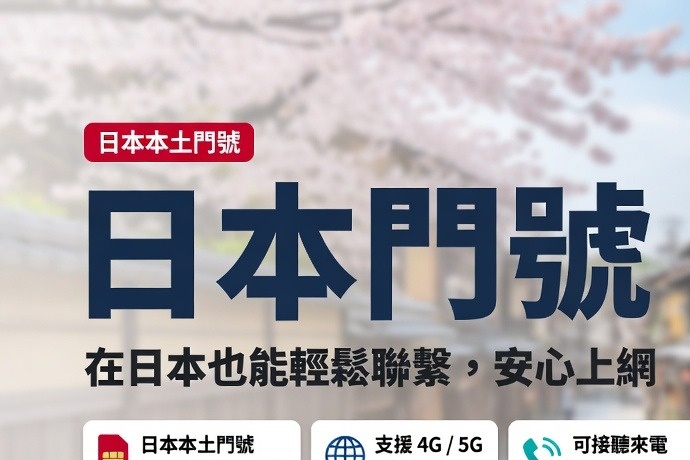
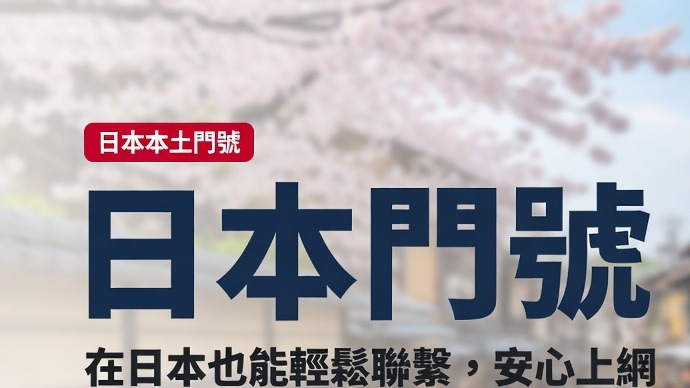
封面圖比例再調整為16:9 + 水電瓦斯文章補上官方資料來源連結
- 水電瓦斯／手機門號兩張封面圖從3:2改裁成16:9(比對站上多數文章慣用比例)，內文圖不再偏高
- 「資料來源」段落把東京電力(TEPCO)、東京都水道局改成可點擊的官網連結(周周提供的官方網址)，繁中/日文同步
- 修正日文版一處殘留英文字「technician」未翻譯的小瑕疵

Claude-Session: https://claude.ai/code/session_01FMpEJuNSBpsPhUhzKdUXoA

diff --git a/japan-utilities-setup-guide-cn.html b/japan-utilities-setup-guide-cn.html
@@ -100,7 +100,7 @@ html{-webkit-text-size-adjust:100%;text-size-adjust:100%}
 <div class="am" style="display:flex;gap:14px;color:var(--mut);font-size:14px;margin-bottom:16px"><span>撰写者：周周</span><span>2026-07-01</span></div>
 <div class="share"><a href="https://www.facebook.com/sharer/sharer.php?u=https%3A%2F%2Fchouchouinjapan.com%2Fjapan-utilities-setup-guide.html" target="_blank" rel="noopener">f 分享</a><a href="https://www.threads.net/intent/post?text=%E5%9C%A8%E6%9D%B1%E4%BA%AC%E8%B2%B7%E6%88%BF%EF%BC%8F%E6%90%AC%E5%AE%B6%E5%BE%8C%EF%BC%8C%E6%B0%B4%E9%9B%BB%E7%93%A6%E6%96%AF%E6%80%8E%E9%BA%BC%E9%96%8B%E9%80%9A%EF%BC%9F%E5%85%A5%E4%BD%8F%E5%89%8D%E5%BF%85%E5%81%9A%E6%B8%85%E5%96%AE%20https%3A%2F%2Fchouchouinjapan.com%2Fjapan-utilities-setup-guide.html" target="_blank" rel="noopener">Threads 分享</a><a href="https://twitter.com/intent/tweet?url=https%3A%2F%2Fchouchouinjapan.com%2Fjapan-utilities-setup-guide.html&text=%E5%9C%A8%E6%9D%B1%E4%BA%AC%E8%B2%B7%E6%88%BF%EF%BC%8F%E6%90%AC%E5%AE%B6%E5%BE%8C%EF%BC%8C%E6%B0%B4%E9%9B%BB%E7%93%A6%E6%96%AF%E6%80%8E%E9%BA%BC%E9%96%8B%E9%80%9A%EF%BC%9F%E5%85%A5%E4%BD%8F%E5%89%8D%E5%BF%85%E5%81%9A%E6%B8%85%E5%96%AE" target="_blank" rel="noopener">𝕏 分享</a><a href="javascript:void(0)" onclick="navigator.clipboard&&navigator.clipboard.writeText('https://chouchouinjapan.com/japan-utilities-setup-guide.html');this.textContent='✓ 已复制';return false">🔗 复制连结</a></div>
 <div class="post">
-<p>交屋或退租搬家后，最实际的第一件事就是水电瓦斯要通。这件事日本没有代办一条龙服务，通常是你自己要打电话或上网申请，这篇把三种水电瓦斯的申请方式、要提前多久办讲清楚。</p><p class="sh"><b>电力</b>东京地区主要是东京电力（TEPCO），2016年电力自由化后虽然有其他业者（新电力）可以选，但根据调查，截至2020年8月，TEPCO服务区内转去新电力的比例也只有约 <b>23.5%</b>，多数住户还是预设用TEPCO。申请方式很简单：<b>上网或打电话都可以，不需要技师到现场</b>，现代智慧电表会在约定时间自动远端开通，旧式电表的话自己扳一下电箱开关就好。TEPCO建议提早几个工作天到一周前申请，急件也有专线可以当天处理。</p><p class="sh"><b>瓦斯</b>东京地区主要是东京瓦斯（东京ガス），跟电力最大的不同是<b>瓦斯开通一定要有师傅到现场</b>——技师会来开瓦斯表、顺便检查瓦斯炉、热水器等设备的安全性，而且<b>你本人（或授权代表）必须在场</b>。因为要约师傅时间，东京瓦斯建议提早 <b>1～2周</b> 申请，搬家旺季（2月底到4月初）建议抓 <b>10天到2周</b> 以上，因为那段时间预约会被排满。如果真的来不及，官方说法是当天上午7点半前上网申请，下午还有机会排到当天时段，但不是保证一定有位子。</p><p class="sh"><b>水道</b>东京23区跟大部分都会区的自来水是由<b>东京都水道局</b>这个公部门负责，不是私人公司。申请一样可以打电话或上网（水道局也有24小时线上表单），建议提早 <b>3～4个工作天</b> 到一周申请。水道通常<b>不用特别等技师</b>，因为水管很少会被完全关掉，多数情况搬进去马上就有水；如果真的没水，通常只是水表旁的「止水栓」没开，自己转开就好，不是技师才能处理的事。</p><p class="sh"><b>这些事情谁负责办</b>：答案是——<b>原则上要你自己打电话或上网办</b>，不管是买房还是租屋都一样。房仲或代管公司通常只会留水电瓦斯的联络资讯或DM给你，不会帮你打电话申请。买房交屋时，司法书士只负责产权登记，水电瓦斯一样是买方自己要处理。</p><p class="sh"><b>其中最容易被忽略、最该提早办的是网路</b>：光纤网路正常大概要等 <b>2～4周</b> 才能装，搬家旺季（3～5月）甚至可能拖到 <b>6～8周</b>，建议至少提前一个月申请，中间可以先用行动网路分享或租Pocket WiFi过渡。另外提醒，搬家后 <b>14天内</b> 要去区公所办「转入届」（迁入登记），这是日本法律规定要做的事，建议跟水电瓦斯一起排进「搬家第一周清单」。</p><div style='background:#fffbeb;border:2px solid #fde68a;border-radius:14px;padding:16px 18px;margin-bottom:14px'><p style='font-weight:700;color:#b45309;margin-bottom:8px'>⚠️ 排序建议</p><p style='font-size:14px;color:#44403c;line-height:1.9;margin:0'>瓦斯要约师傅、最花时间，<b>最优先办</b>；网路要等最久，<b>建议提前一个月</b>就申请；电力、水道相对简单，搬家前几天到一周申请都还来得及。</p></div><div style='background:linear-gradient(135deg,#fff1f2,#ffe4e6);border:2px solid #fb7185;border-radius:14px;padding:16px 18px;margin:6px 0 18px'><p style='font-weight:700;color:var(--rose-d);margin-bottom:8px'>💡 周周的提醒</p><p style='font-size:14px;color:#44403c;line-height:1.9;margin:0'>这些流程日文电话或线上申请都不算难，但真的担心沟通问题，我们的售后服务可以帮忙对接水电瓦斯这几件事——买房后这些琐事想要有人帮忙处理，欢迎加LINE找我聊聊。</p></div><p class="src"><b>资料来源：</b>东京电力（TEPCO）官网搬家手续说明、东京瓦斯（东京ガス）官网使用开始说明、东京都水道局官网申请说明、ENECHANGE电力自由化转换率调查（2020年8月）、日本移居／搬家实用指南整理。</p><p class="src">本文为一般资讯整理，不构成法律或税务建议；实际申请流程、费用与时程请以各电力／瓦斯／水道业者当下公告为准。</p>
+<p>交屋或退租搬家后，最实际的第一件事就是水电瓦斯要通。这件事日本没有代办一条龙服务，通常是你自己要打电话或上网申请，这篇把三种水电瓦斯的申请方式、要提前多久办讲清楚。</p><p class="sh"><b>电力</b>东京地区主要是东京电力（TEPCO），2016年电力自由化后虽然有其他业者（新电力）可以选，但根据调查，截至2020年8月，TEPCO服务区内转去新电力的比例也只有约 <b>23.5%</b>，多数住户还是预设用TEPCO。申请方式很简单：<b>上网或打电话都可以，不需要技师到现场</b>，现代智慧电表会在约定时间自动远端开通，旧式电表的话自己扳一下电箱开关就好。TEPCO建议提早几个工作天到一周前申请，急件也有专线可以当天处理。</p><p class="sh"><b>瓦斯</b>东京地区主要是东京瓦斯（东京ガス），跟电力最大的不同是<b>瓦斯开通一定要有师傅到现场</b>——技师会来开瓦斯表、顺便检查瓦斯炉、热水器等设备的安全性，而且<b>你本人（或授权代表）必须在场</b>。因为要约师傅时间，东京瓦斯建议提早 <b>1～2周</b> 申请，搬家旺季（2月底到4月初）建议抓 <b>10天到2周</b> 以上，因为那段时间预约会被排满。如果真的来不及，官方说法是当天上午7点半前上网申请，下午还有机会排到当天时段，但不是保证一定有位子。</p><p class="sh"><b>水道</b>东京23区跟大部分都会区的自来水是由<b>东京都水道局</b>这个公部门负责，不是私人公司。申请一样可以打电话或上网（水道局也有24小时线上表单），建议提早 <b>3～4个工作天</b> 到一周申请。水道通常<b>不用特别等技师</b>，因为水管很少会被完全关掉，多数情况搬进去马上就有水；如果真的没水，通常只是水表旁的「止水栓」没开，自己转开就好，不是技师才能处理的事。</p><p class="sh"><b>这些事情谁负责办</b>：答案是——<b>原则上要你自己打电话或上网办</b>，不管是买房还是租屋都一样。房仲或代管公司通常只会留水电瓦斯的联络资讯或DM给你，不会帮你打电话申请。买房交屋时，司法书士只负责产权登记，水电瓦斯一样是买方自己要处理。</p><p class="sh"><b>其中最容易被忽略、最该提早办的是网路</b>：光纤网路正常大概要等 <b>2～4周</b> 才能装，搬家旺季（3～5月）甚至可能拖到 <b>6～8周</b>，建议至少提前一个月申请，中间可以先用行动网路分享或租Pocket WiFi过渡。另外提醒，搬家后 <b>14天内</b> 要去区公所办「转入届」（迁入登记），这是日本法律规定要做的事，建议跟水电瓦斯一起排进「搬家第一周清单」。</p><div style='background:#fffbeb;border:2px solid #fde68a;border-radius:14px;padding:16px 18px;margin-bottom:14px'><p style='font-weight:700;color:#b45309;margin-bottom:8px'>⚠️ 排序建议</p><p style='font-size:14px;color:#44403c;line-height:1.9;margin:0'>瓦斯要约师傅、最花时间，<b>最优先办</b>；网路要等最久，<b>建议提前一个月</b>就申请；电力、水道相对简单，搬家前几天到一周申请都还来得及。</p></div><div style='background:linear-gradient(135deg,#fff1f2,#ffe4e6);border:2px solid #fb7185;border-radius:14px;padding:16px 18px;margin:6px 0 18px'><p style='font-weight:700;color:var(--rose-d);margin-bottom:8px'>💡 周周的提醒</p><p style='font-size:14px;color:#44403c;line-height:1.9;margin:0'>这些流程日文电话或线上申请都不算难，但真的担心沟通问题，我们的售后服务可以帮忙对接水电瓦斯这几件事——买房后这些琐事想要有人帮忙处理，欢迎加LINE找我聊聊。</p></div><p class="src"><b>资料来源：</b><a href='https://www.tepco.co.jp/index-j.html' target='_blank' style='color:var(--rose);font-weight:600' rel='noopener'>东京电力（TEPCO）官网</a>搬家手续说明、东京瓦斯（东京ガス）官网使用开始说明、<a href='https://www.waterworks.metro.tokyo.lg.jp/tetsuduki' target='_blank' style='color:var(--rose);font-weight:600' rel='noopener'>东京都水道局官网</a>申请说明、ENECHANGE电力自由化转换率调查（2020年8月）、日本移居／搬家实用指南整理。</p><p class="src">本文为一般资讯整理，不构成法律或税务建议；实际申请流程、费用与时程请以各电力／瓦斯／水道业者当下公告为准。</p>
 </div>
 
 <div class="ablock" style="margin-top:26px"><div><b>这篇有帮到你吗？有问题直接问我</b><br><span style="color:var(--mut);font-size:14px">看到喜欢的物件也可以直接贴给周周看看。</span></div><a class="btn btn-line" href="https://lin.ee/RscRWCp" target="_blank" rel="noopener">加 LINE 咨询</a></div>

diff --git a/japan-utilities-setup-guide-ja.html b/japan-utilities-setup-guide-ja.html
@@ -99,7 +99,7 @@ html{-webkit-text-size-adjust:100%;text-size-adjust:100%}
 <div class="am" style="display:flex;gap:14px;color:var(--mut);font-size:14px;margin-bottom:16px"><span>執筆者：周周</span><span>2026-07-01</span></div>
 <div class="share"><a href="https://www.facebook.com/sharer/sharer.php?u=https%3A%2F%2Fchouchouinjapan.com%2Fjapan-utilities-setup-guide-ja.html" target="_blank" rel="noopener">f シェア</a><a href="https://www.threads.net/intent/post?text=%E6%9D%B1%E4%BA%AC%E3%81%A7%E4%BD%8F%E5%AE%85%E3%82%92%E8%B3%BC%E5%85%A5%E3%83%BB%E5%BC%95%E3%81%A3%E8%B6%8A%E3%81%97%E3%81%9F%E5%BE%8C%E3%80%81%E9%9B%BB%E6%B0%97%E3%83%BB%E3%82%AC%E3%82%B9%E3%83%BB%E6%B0%B4%E9%81%93%E3%81%AF%E3%81%A9%E3%81%86%E9%96%8B%E9%80%9A%E3%81%99%E3%82%8B%EF%BC%9F%E5%85%A5%E5%B1%85%E5%89%8D%E3%81%AE%E3%83%81%E3%82%A7%E3%83%83%E3%82%AF%E3%83%AA%E3%82%B9%E3%83%88%20https%3A%2F%2Fchouchouinjapan.com%2Fjapan-utilities-setup-guide-ja.html" target="_blank" rel="noopener">Threadsでシェア</a><a href="https://twitter.com/intent/tweet?url=https%3A%2F%2Fchouchouinjapan.com%2Fjapan-utilities-setup-guide-ja.html&text=%E6%9D%B1%E4%BA%AC%E3%81%A7%E4%BD%8F%E5%AE%85%E3%82%92%E8%B3%BC%E5%85%A5%E3%83%BB%E5%BC%95%E3%81%A3%E8%B6%8A%E3%81%97%E3%81%9F%E5%BE%8C%E3%80%81%E9%9B%BB%E6%B0%97%E3%83%BB%E3%82%AC%E3%82%B9%E3%83%BB%E6%B0%B4%E9%81%93%E3%81%AF%E3%81%A9%E3%81%86%E9%96%8B%E9%80%9A%E3%81%99%E3%82%8B%EF%BC%9F%E5%85%A5%E5%B1%85%E5%89%8D%E3%81%AE%E3%83%81%E3%82%A7%E3%83%83%E3%82%AF%E3%83%AA%E3%82%B9%E3%83%88" target="_blank" rel="noopener">𝕏 でポスト</a><a href="javascript:void(0)" onclick="navigator.clipboard&&navigator.clipboard.writeText('https://chouchouinjapan.com/japan-utilities-setup-guide-ja.html');this.textContent='✓ コピーしました';return false">🔗 リンクをコピー</a></div>
 <div class="post">
-<p>引き渡しや退去による引っ越しの後、まず最初に済ませておきたいのが電気・ガス・水道の開通手続きです。日本にはこれをまとめて代行してくれるサービスはなく、基本的にはご自身で電話やウェブから申し込む必要があります。この記事では、電気・ガス・水道それぞれの申込方法と、どれくらい前から手続きすべきかを整理しました。</p><p class="sh"><b>電気</b>東京エリアの主な電力会社は東京電力（TEPCO）です。2016年の電力自由化以降、新電力と呼ばれる他社を選ぶこともできますが、ある調査によると2020年8月時点でTEPCOの供給エリア内で新電力に切り替えた割合は約<b>23.5%</b>にとどまっており、多くの世帯は引き続きTEPCOをデフォルトで利用しています。申込方法はシンプルで、<b>ウェブまたは電話で完結し、technician（作業員）の訪問は不要</b>です。スマートメーターであれば予約した時間に遠隔で自動的に通電し、旧式のメーターの場合は分電盤のスイッチをご自身で入れるだけで済みます。TEPCOでは数営業日〜1週間程度前の申し込みを推奨していますが、急ぎの場合は当日対応の専用窓口もあります。</p><p class="sh"><b>ガス</b>東京エリアの主なガス会社は東京ガスです。電気と大きく異なるのは、<b>ガスの開栓には必ず作業員の訪問が必要</b>という点です。作業員がガスメーターを開栓し、ガスコンロや給湯器などの設備の安全確認も同時に行うため、<b>ご本人（または代理の方）の立ち会いが必須</b>となります。作業員のスケジュールを確保する必要があるため、東京ガスでは<b>1〜2週間前</b>の申し込みを推奨しており、引っ越しの繁忙期（2月末〜4月上旬）は<b>10日〜2週間以上前</b>の申し込みが望ましいとされています。この時期は予約が埋まりやすいためです。どうしても間に合わない場合、当日の朝7時30分までにウェブから申し込めば、その日の午後に対応してもらえる可能性もありますが、必ず確保できるとは限りません。</p><p class="sh"><b>水道</b>東京23区および多くの都市部エリアの水道事業は、民間企業ではなく<b>東京都水道局</b>という公的機関が担っています。申込方法は電話またはウェブ（水道局には24時間対応のオンラインフォームもあります）で、<b>3〜4営業日〜1週間程度前</b>の申し込みが推奨されています。水道は<b>基本的に作業員を待つ必要がなく</b>、配管が完全に止水されることはほとんどないため、多くの場合は入居してすぐに水が使えます。もし水が出ない場合は、たいていメーター横の「止水栓」が閉まっているだけで、ご自身で開ければ済むケースがほとんどです。</p><p class="sh"><b>これらの手続きは誰が行うのか</b>——答えは、<b>購入・賃貸を問わず、原則としてご自身で電話またはウェブから申し込む</b>必要があるということです。不動産会社や管理会社は連絡先やチラシを渡してくれることはあっても、代わりに電話をかけて申し込んでくれるわけではありません。購入して引き渡しを受ける場合も、司法書士が担うのは登記手続きのみで、電気・ガス・水道は買主自身が対応する必要があります。</p><p class="sh"><b>もっとも見落とされがちで、早めに手配すべきなのがインターネット回線</b>です。光回線の工事は通常<b>2〜4週間</b>程度かかりますが、引っ越しの繁忙期（3〜5月）には<b>6〜8週間</b>程度まで延びることもあります。少なくとも1ヶ月前には申し込むことをおすすめし、その間はモバイルルーターやポケットWi-Fiで代用するとよいでしょう。あわせて、引っ越し後<b>14日以内</b>に区役所・市役所で「転入届」（転入手続き）を行うことも日本の法律で義務付けられていますので、電気・ガス・水道と合わせて「引っ越し1週間目のチェックリスト」に入れておくことをおすすめします。</p><div style='background:#fffbeb;border:2px solid #fde68a;border-radius:14px;padding:16px 18px;margin-bottom:14px'><p style='font-weight:700;color:#b45309;margin-bottom:8px'>⚠️ 優先順位の目安</p><p style='font-size:14px;color:#44403c;line-height:1.9;margin:0'>ガスは作業員の予約が必要でもっとも時間がかかるため<b>最優先</b>で手配を。インターネットはもっとも待ち時間が長いため<b>1ヶ月前</b>には申し込みを。電気・水道は比較的シンプルなので、引っ越しの数日前〜1週間前の申し込みでも間に合います。</p></div><div style='background:linear-gradient(135deg,#fff1f2,#ffe4e6);border:2px solid #fb7185;border-radius:14px;padding:16px 18px;margin:6px 0 18px'><p style='font-weight:700;color:var(--rose-d);margin-bottom:8px'>💡 周周からのアドバイス</p><p style='font-size:14px;color:#44403c;line-height:1.9;margin:0'>これらの手続きは日本語での電話やオンライン申請でもそれほど難しくありませんが、言葉の面でご不安な場合は、私どものアフターサポートで電気・ガス・水道の手続きのご案内をお手伝いすることも可能です。購入後のこうした細々とした手続きをサポートしてほしい方は、お気軽にLINEでご相談ください。</p></div><p class="src"><b>出典：</b>東京電力（TEPCO）公式サイトの引っ越し手続き案内、東京ガス公式サイトの使用開始案内、東京都水道局公式サイトの申込案内、ENECHANGE 電力自由化スイッチング率調査（2020年8月）、日本の移住・引っ越し実用ガイド類の整理。</p><p class="src">本記事は一般的な情報整理を目的としたものであり、法律や税務に関する助言ではありません。実際の申込方法、費用、所要期間については、各電気・ガス・水道事業者の最新の案内をご確認ください。</p>
+<p>引き渡しや退去による引っ越しの後、まず最初に済ませておきたいのが電気・ガス・水道の開通手続きです。日本にはこれをまとめて代行してくれるサービスはなく、基本的にはご自身で電話やウェブから申し込む必要があります。この記事では、電気・ガス・水道それぞれの申込方法と、どれくらい前から手続きすべきかを整理しました。</p><p class="sh"><b>電気</b>東京エリアの主な電力会社は東京電力（TEPCO）です。2016年の電力自由化以降、新電力と呼ばれる他社を選ぶこともできますが、ある調査によると2020年8月時点でTEPCOの供給エリア内で新電力に切り替えた割合は約<b>23.5%</b>にとどまっており、多くの世帯は引き続きTEPCOをデフォルトで利用しています。申込方法はシンプルで、<b>ウェブまたは電話で完結し、作業員の訪問は不要</b>です。スマートメーターであれば予約した時間に遠隔で自動的に通電し、旧式のメーターの場合は分電盤のスイッチをご自身で入れるだけで済みます。TEPCOでは数営業日〜1週間程度前の申し込みを推奨していますが、急ぎの場合は当日対応の専用窓口もあります。</p><p class="sh"><b>ガス</b>東京エリアの主なガス会社は東京ガスです。電気と大きく異なるのは、<b>ガスの開栓には必ず作業員の訪問が必要</b>という点です。作業員がガスメーターを開栓し、ガスコンロや給湯器などの設備の安全確認も同時に行うため、<b>ご本人（または代理の方）の立ち会いが必須</b>となります。作業員のスケジュールを確保する必要があるため、東京ガスでは<b>1〜2週間前</b>の申し込みを推奨しており、引っ越しの繁忙期（2月末〜4月上旬）は<b>10日〜2週間以上前</b>の申し込みが望ましいとされています。この時期は予約が埋まりやすいためです。どうしても間に合わない場合、当日の朝7時30分までにウェブから申し込めば、その日の午後に対応してもらえる可能性もありますが、必ず確保できるとは限りません。</p><p class="sh"><b>水道</b>東京23区および多くの都市部エリアの水道事業は、民間企業ではなく<b>東京都水道局</b>という公的機関が担っています。申込方法は電話またはウェブ（水道局には24時間対応のオンラインフォームもあります）で、<b>3〜4営業日〜1週間程度前</b>の申し込みが推奨されています。水道は<b>基本的に作業員を待つ必要がなく</b>、配管が完全に止水されることはほとんどないため、多くの場合は入居してすぐに水が使えます。もし水が出ない場合は、たいていメーター横の「止水栓」が閉まっているだけで、ご自身で開ければ済むケースがほとんどです。</p><p class="sh"><b>これらの手続きは誰が行うのか</b>——答えは、<b>購入・賃貸を問わず、原則としてご自身で電話またはウェブから申し込む</b>必要があるということです。不動産会社や管理会社は連絡先やチラシを渡してくれることはあっても、代わりに電話をかけて申し込んでくれるわけではありません。購入して引き渡しを受ける場合も、司法書士が担うのは登記手続きのみで、電気・ガス・水道は買主自身が対応する必要があります。</p><p class="sh"><b>もっとも見落とされがちで、早めに手配すべきなのがインターネット回線</b>です。光回線の工事は通常<b>2〜4週間</b>程度かかりますが、引っ越しの繁忙期（3〜5月）には<b>6〜8週間</b>程度まで延びることもあります。少なくとも1ヶ月前には申し込むことをおすすめし、その間はモバイルルーターやポケットWi-Fiで代用するとよいでしょう。あわせて、引っ越し後<b>14日以内</b>に区役所・市役所で「転入届」（転入手続き）を行うことも日本の法律で義務付けられていますので、電気・ガス・水道と合わせて「引っ越し1週間目のチェックリスト」に入れておくことをおすすめします。</p><div style='background:#fffbeb;border:2px solid #fde68a;border-radius:14px;padding:16px 18px;margin-bottom:14px'><p style='font-weight:700;color:#b45309;margin-bottom:8px'>⚠️ 優先順位の目安</p><p style='font-size:14px;color:#44403c;line-height:1.9;margin:0'>ガスは作業員の予約が必要でもっとも時間がかかるため<b>最優先</b>で手配を。インターネットはもっとも待ち時間が長いため<b>1ヶ月前</b>には申し込みを。電気・水道は比較的シンプルなので、引っ越しの数日前〜1週間前の申し込みでも間に合います。</p></div><div style='background:linear-gradient(135deg,#fff1f2,#ffe4e6);border:2px solid #fb7185;border-radius:14px;padding:16px 18px;margin:6px 0 18px'><p style='font-weight:700;color:var(--rose-d);margin-bottom:8px'>💡 周周からのアドバイス</p><p style='font-size:14px;color:#44403c;line-height:1.9;margin:0'>これらの手続きは日本語での電話やオンライン申請でもそれほど難しくありませんが、言葉の面でご不安な場合は、私どものアフターサポートで電気・ガス・水道の手続きのご案内をお手伝いすることも可能です。購入後のこうした細々とした手続きをサポートしてほしい方は、お気軽にLINEでご相談ください。</p></div><p class="src"><b>出典：</b><a href='https://www.tepco.co.jp/index-j.html' target='_blank' style='color:var(--rose);font-weight:600' rel='noopener'>東京電力（TEPCO）公式サイト</a>の引っ越し手続き案内、東京ガス公式サイトの使用開始案内、<a href='https://www.waterworks.metro.tokyo.lg.jp/tetsuduki' target='_blank' style='color:var(--rose);font-weight:600' rel='noopener'>東京都水道局公式サイト</a>の申込案内、ENECHANGE 電力自由化スイッチング率調査（2020年8月）、日本の移住・引っ越し実用ガイド類の整理。</p><p class="src">本記事は一般的な情報整理を目的としたものであり、法律や税務に関する助言ではありません。実際の申込方法、費用、所要期間については、各電気・ガス・水道事業者の最新の案内をご確認ください。</p>
 </div>
 
 <div class="ablock" style="margin-top:26px"><div><b>この記事はお役に立ちましたか？ご質問はお気軽にどうぞ</b><br><span style="color:var(--mut);font-size:14px">気になる物件があれば、そのまま周周までお送りください。</span></div><a class="btn btn-line" href="https://lin.ee/RscRWCp" target="_blank" rel="noopener">LINEで相談する</a></div>

diff --git a/japan-utilities-setup-guide.html b/japan-utilities-setup-guide.html
@@ -100,7 +100,7 @@ html{-webkit-text-size-adjust:100%;text-size-adjust:100%}
 <div class="am" style="display:flex;gap:14px;color:var(--mut);font-size:14px;margin-bottom:16px"><span>撰寫者：周周</span><span>2026-07-01</span></div>
 <div class="share"><a href="https://www.facebook.com/sharer/sharer.php?u=https%3A%2F%2Fchouchouinjapan.com%2Fjapan-utilities-setup-guide.html" target="_blank" rel="noopener">f 分享</a><a href="https://www.threads.net/intent/post?text=%E5%9C%A8%E6%9D%B1%E4%BA%AC%E8%B2%B7%E6%88%BF%EF%BC%8F%E6%90%AC%E5%AE%B6%E5%BE%8C%EF%BC%8C%E6%B0%B4%E9%9B%BB%E7%93%A6%E6%96%AF%E6%80%8E%E9%BA%BC%E9%96%8B%E9%80%9A%EF%BC%9F%E5%85%A5%E4%BD%8F%E5%89%8D%E5%BF%85%E5%81%9A%E6%B8%85%E5%96%AE%20https%3A%2F%2Fchouchouinjapan.com%2Fjapan-utilities-setup-guide.html" target="_blank" rel="noopener">Threads 分享</a><a href="https://twitter.com/intent/tweet?url=https%3A%2F%2Fchouchouinjapan.com%2Fjapan-utilities-setup-guide.html&text=%E5%9C%A8%E6%9D%B1%E4%BA%AC%E8%B2%B7%E6%88%BF%EF%BC%8F%E6%90%AC%E5%AE%B6%E5%BE%8C%EF%BC%8C%E6%B0%B4%E9%9B%BB%E7%93%A6%E6%96%AF%E6%80%8E%E9%BA%BC%E9%96%8B%E9%80%9A%EF%BC%9F%E5%85%A5%E4%BD%8F%E5%89%8D%E5%BF%85%E5%81%9A%E6%B8%85%E5%96%AE" target="_blank" rel="noopener">𝕏 分享</a><a href="javascript:void(0)" onclick="navigator.clipboard&&navigator.clipboard.writeText('https://chouchouinjapan.com/japan-utilities-setup-guide.html');this.textContent='✓ 已複製';return false">🔗 複製連結</a></div>
 <div class="post">
-<p>交屋或退租搬家後，最實際的第一件事就是水電瓦斯要通。這件事日本沒有代辦一條龍服務，通常是你自己要打電話或上網申請，這篇把三種水電瓦斯的申請方式、要提前多久辦講清楚。</p><p class="sh"><b>電力</b>東京地區主要是東京電力（TEPCO），2016年電力自由化後雖然有其他業者（新電力）可以選，但根據調查，截至2020年8月，TEPCO服務區內轉去新電力的比例也只有約 <b>23.5%</b>，多數住戶還是預設用TEPCO。申請方式很簡單：<b>上網或打電話都可以，不需要技師到現場</b>，現代智慧電表會在約定時間自動遠端開通，舊式電表的話自己扳一下電箱開關就好。TEPCO建議提早幾個工作天到一週前申請，急件也有專線可以當天處理。</p><p class="sh"><b>瓦斯</b>東京地區主要是東京瓦斯（東京ガス），跟電力最大的不同是<b>瓦斯開通一定要有師傅到現場</b>——技師會來開瓦斯表、順便檢查瓦斯爐、熱水器等設備的安全性，而且<b>你本人（或授權代表）必須在場</b>。因為要約師傅時間，東京瓦斯建議提早 <b>1～2週</b> 申請，搬家旺季（2月底到4月初）建議抓 <b>10天到2週</b> 以上，因為那段時間預約會被排滿。如果真的來不及，官方說法是當天上午7點半前上網申請，下午還有機會排到當天時段，但不是保證一定有位子。</p><p class="sh"><b>水道</b>東京23區跟大部分都會區的自來水是由<b>東京都水道局</b>這個公部門負責，不是私人公司。申請一樣可以打電話或上網（水道局也有24小時線上表單），建議提早 <b>3～4個工作天</b> 到一週申請。水道通常<b>不用特別等技師</b>，因為水管很少會被完全關掉，多數情況搬進去馬上就有水；如果真的沒水，通常只是水表旁的「止水栓」沒開，自己轉開就好，不是技師才能處理的事。</p><p class="sh"><b>這些事情誰負責辦</b>：答案是——<b>原則上要你自己打電話或上網辦</b>，不管是買房還是租屋都一樣。房仲或代管公司通常只會留水電瓦斯的聯絡資訊或DM給你，不會幫你打電話申請。買房交屋時，司法書士只負責產權登記，水電瓦斯一樣是買方自己要處理。</p><p class="sh"><b>其中最容易被忽略、最該提早辦的是網路</b>：光纖網路正常大概要等 <b>2～4週</b> 才能裝，搬家旺季（3～5月）甚至可能拖到 <b>6～8週</b>，建議至少提前一個月申請，中間可以先用行動網路分享或租Pocket WiFi過渡。另外提醒，搬家後 <b>14天內</b> 要去區公所辦「轉入屆」（遷入登記），這是日本法律規定要做的事，建議跟水電瓦斯一起排進「搬家第一週清單」。</p><div style='background:#fffbeb;border:2px solid #fde68a;border-radius:14px;padding:16px 18px;margin-bottom:14px'><p style='font-weight:700;color:#b45309;margin-bottom:8px'>⚠️ 排序建議</p><p style='font-size:14px;color:#44403c;line-height:1.9;margin:0'>瓦斯要約師傅、最花時間，<b>最優先辦</b>；網路要等最久，<b>建議提前一個月</b>就申請；電力、水道相對簡單，搬家前幾天到一週申請都還來得及。</p></div><div style='background:linear-gradient(135deg,#fff1f2,#ffe4e6);border:2px solid #fb7185;border-radius:14px;padding:16px 18px;margin:6px 0 18px'><p style='font-weight:700;color:var(--rose-d);margin-bottom:8px'>💡 周周的提醒</p><p style='font-size:14px;color:#44403c;line-height:1.9;margin:0'>這些流程日文電話或線上申請都不算難，但真的擔心溝通問題，我們的售後服務可以幫忙對接水電瓦斯這幾件事——買房後這些瑣事想要有人幫忙處理，歡迎加LINE找我聊聊。</p></div><p class="src"><b>資料來源：</b>東京電力（TEPCO）官網搬家手續說明、東京瓦斯（東京ガス）官網使用開始說明、東京都水道局官網申請說明、ENECHANGE電力自由化轉換率調查（2020年8月）、日本移居／搬家實用指南整理。</p><p class="src">本文為一般資訊整理，不構成法律或稅務建議；實際申請流程、費用與時程請以各電力／瓦斯／水道業者當下公告為準。</p>
+<p>交屋或退租搬家後，最實際的第一件事就是水電瓦斯要通。這件事日本沒有代辦一條龍服務，通常是你自己要打電話或上網申請，這篇把三種水電瓦斯的申請方式、要提前多久辦講清楚。</p><p class="sh"><b>電力</b>東京地區主要是東京電力（TEPCO），2016年電力自由化後雖然有其他業者（新電力）可以選，但根據調查，截至2020年8月，TEPCO服務區內轉去新電力的比例也只有約 <b>23.5%</b>，多數住戶還是預設用TEPCO。申請方式很簡單：<b>上網或打電話都可以，不需要技師到現場</b>，現代智慧電表會在約定時間自動遠端開通，舊式電表的話自己扳一下電箱開關就好。TEPCO建議提早幾個工作天到一週前申請，急件也有專線可以當天處理。</p><p class="sh"><b>瓦斯</b>東京地區主要是東京瓦斯（東京ガス），跟電力最大的不同是<b>瓦斯開通一定要有師傅到現場</b>——技師會來開瓦斯表、順便檢查瓦斯爐、熱水器等設備的安全性，而且<b>你本人（或授權代表）必須在場</b>。因為要約師傅時間，東京瓦斯建議提早 <b>1～2週</b> 申請，搬家旺季（2月底到4月初）建議抓 <b>10天到2週</b> 以上，因為那段時間預約會被排滿。如果真的來不及，官方說法是當天上午7點半前上網申請，下午還有機會排到當天時段，但不是保證一定有位子。</p><p class="sh"><b>水道</b>東京23區跟大部分都會區的自來水是由<b>東京都水道局</b>這個公部門負責，不是私人公司。申請一樣可以打電話或上網（水道局也有24小時線上表單），建議提早 <b>3～4個工作天</b> 到一週申請。水道通常<b>不用特別等技師</b>，因為水管很少會被完全關掉，多數情況搬進去馬上就有水；如果真的沒水，通常只是水表旁的「止水栓」沒開，自己轉開就好，不是技師才能處理的事。</p><p class="sh"><b>這些事情誰負責辦</b>：答案是——<b>原則上要你自己打電話或上網辦</b>，不管是買房還是租屋都一樣。房仲或代管公司通常只會留水電瓦斯的聯絡資訊或DM給你，不會幫你打電話申請。買房交屋時，司法書士只負責產權登記，水電瓦斯一樣是買方自己要處理。</p><p class="sh"><b>其中最容易被忽略、最該提早辦的是網路</b>：光纖網路正常大概要等 <b>2～4週</b> 才能裝，搬家旺季（3～5月）甚至可能拖到 <b>6～8週</b>，建議至少提前一個月申請，中間可以先用行動網路分享或租Pocket WiFi過渡。另外提醒，搬家後 <b>14天內</b> 要去區公所辦「轉入屆」（遷入登記），這是日本法律規定要做的事，建議跟水電瓦斯一起排進「搬家第一週清單」。</p><div style='background:#fffbeb;border:2px solid #fde68a;border-radius:14px;padding:16px 18px;margin-bottom:14px'><p style='font-weight:700;color:#b45309;margin-bottom:8px'>⚠️ 排序建議</p><p style='font-size:14px;color:#44403c;line-height:1.9;margin:0'>瓦斯要約師傅、最花時間，<b>最優先辦</b>；網路要等最久，<b>建議提前一個月</b>就申請；電力、水道相對簡單，搬家前幾天到一週申請都還來得及。</p></div><div style='background:linear-gradient(135deg,#fff1f2,#ffe4e6);border:2px solid #fb7185;border-radius:14px;padding:16px 18px;margin:6px 0 18px'><p style='font-weight:700;color:var(--rose-d);margin-bottom:8px'>💡 周周的提醒</p><p style='font-size:14px;color:#44403c;line-height:1.9;margin:0'>這些流程日文電話或線上申請都不算難，但真的擔心溝通問題，我們的售後服務可以幫忙對接水電瓦斯這幾件事——買房後這些瑣事想要有人幫忙處理，歡迎加LINE找我聊聊。</p></div><p class="src"><b>資料來源：</b><a href='https://www.tepco.co.jp/index-j.html' target='_blank' style='color:var(--rose);font-weight:600' rel='noopener'>東京電力（TEPCO）官網</a>搬家手續說明、東京瓦斯（東京ガス）官網使用開始說明、<a href='https://www.waterworks.metro.tokyo.lg.jp/tetsuduki' target='_blank' style='color:var(--rose);font-weight:600' rel='noopener'>東京都水道局官網</a>申請說明、ENECHANGE電力自由化轉換率調查（2020年8月）、日本移居／搬家實用指南整理。</p><p class="src">本文為一般資訊整理，不構成法律或稅務建議；實際申請流程、費用與時程請以各電力／瓦斯／水道業者當下公告為準。</p>
 </div>
 
 <div class="ablock" style="margin-top:26px"><div><b>這篇有幫到你嗎？有問題直接問我</b><br><span style="color:var(--mut);font-size:14px">看到喜歡的物件也可以直接貼給周周看看。</span></div><a class="btn btn-line" href="https://lin.ee/RscRWCp" target="_blank" rel="noopener">加 LINE 諮詢</a></div>